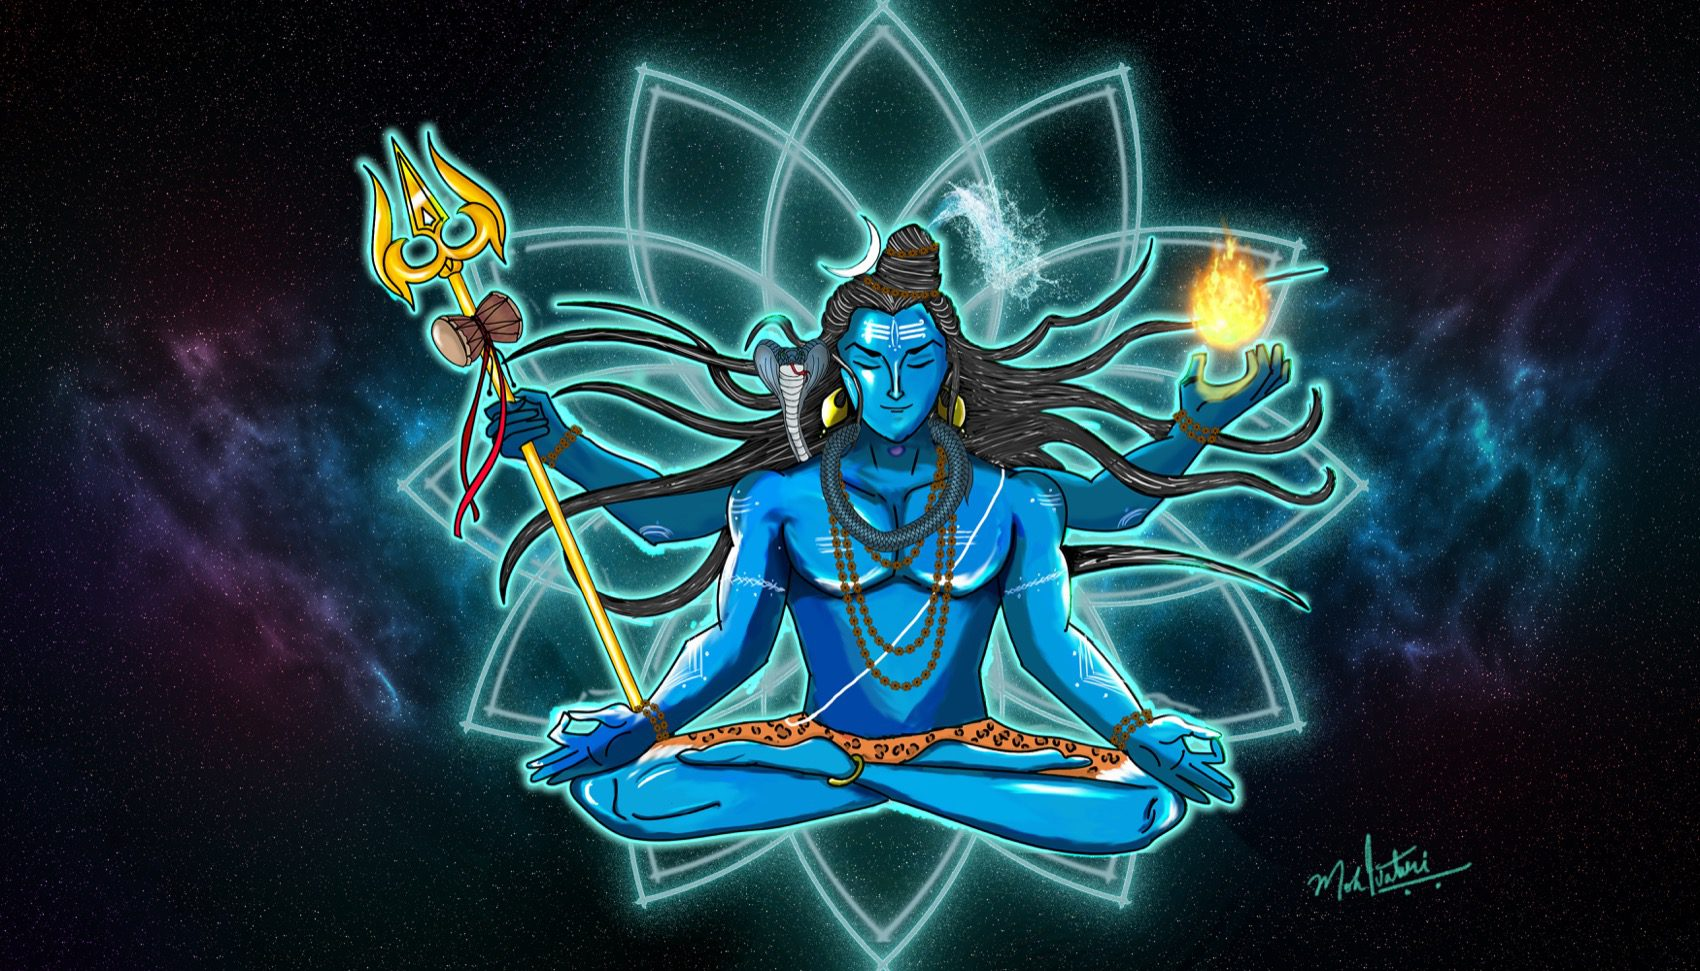
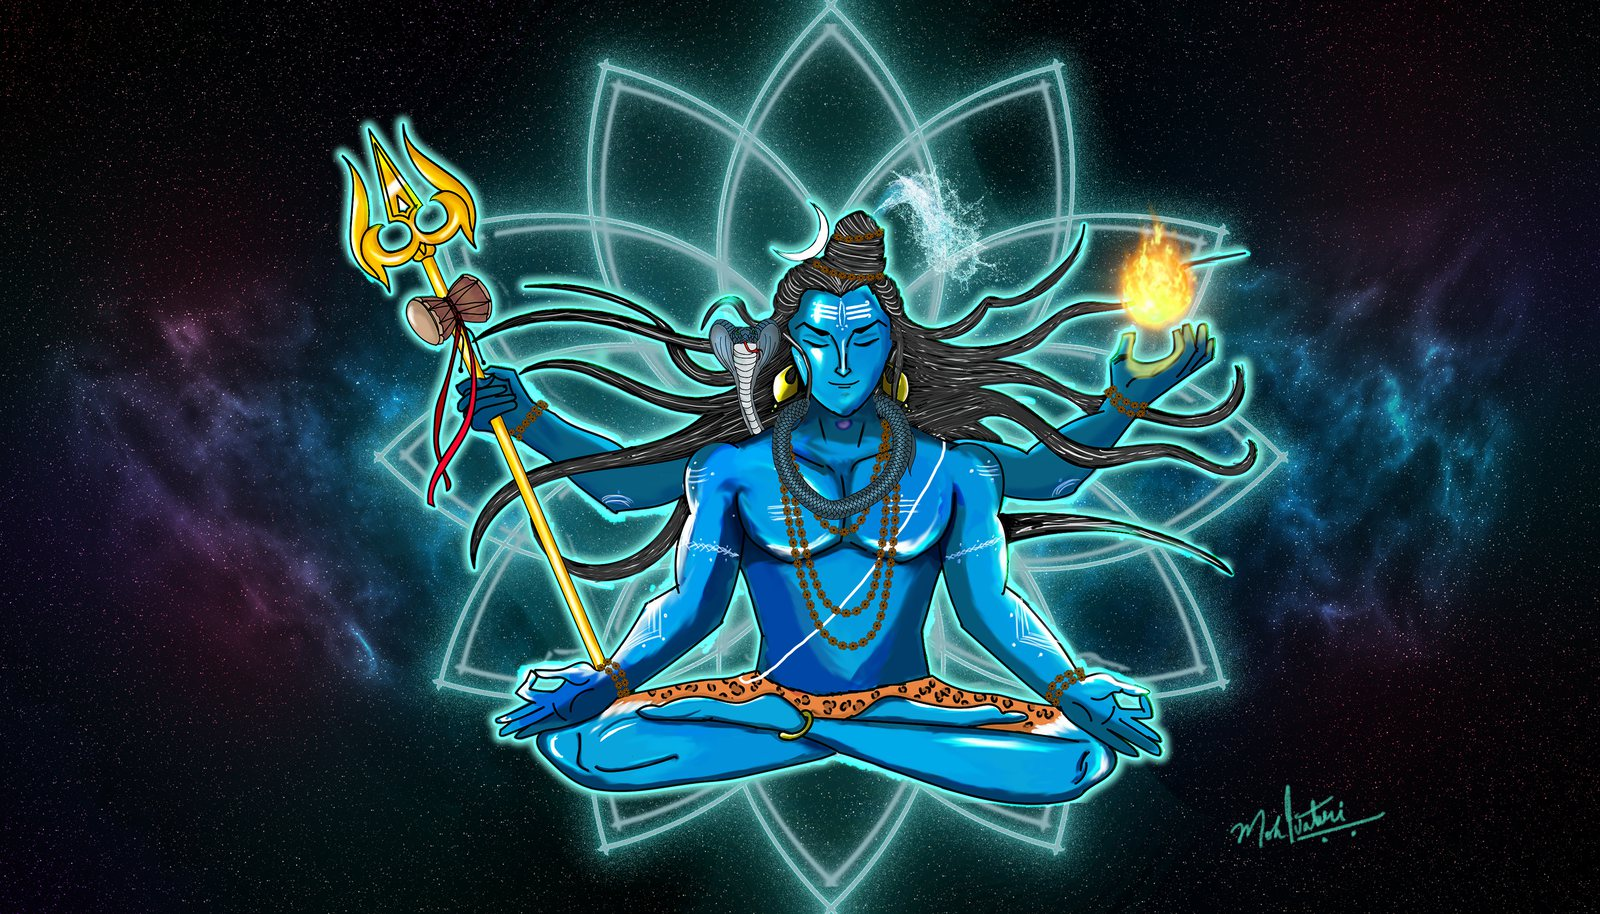
frontend: Mahadev process stages + story
- add line art and rough sketch (masters -> art-source/); regenerate
  final from the full 7000x4000 artwork (not the 16:9 video crop)
- subtitle "He is all and everything. He is the Universe."
- year 2024 -> 2022; description is the artist's note (tidied): first
  Photoshop painting, learned off YouTube, still the favourite

diff --git a/frontend/src/data/artworks.ts b/frontend/src/data/artworks.ts
@@ -89,13 +89,18 @@ export const artworks: Artwork[] = [
   {
     slug: 'mahadev',
     title: 'Mahadev',
-    year: '2024',
+    subtitle: 'He is all and everything. He is the Universe.',
+    year: '2022',
     medium: 'Digital',
     style: 'sacred',
     cover: asset('mahadev/final.jpg'),
-    stages: [{ label: 'Final', src: asset('mahadev/final.jpg') }],
+    stages: [
+      { label: 'Final', src: asset('mahadev/final.jpg') },
+      { label: 'Line art', src: asset('mahadev/line-art.jpg') },
+      { label: 'Rough sketch', src: asset('mahadev/sketch.jpg') },
+    ],
     description:
-      'Shiva in meditation on a cosmic ground, trishul and serpent to one side, a flame held in the open hand. The still frame the home-page video is built from.',
+      'My first ever painting in Photoshop. It took a few days, learning off every random YouTube tutorial and just going all out. Still my favourite piece I have made.',
   },
   {
     slug: 'dhyana-anjaneyam',
